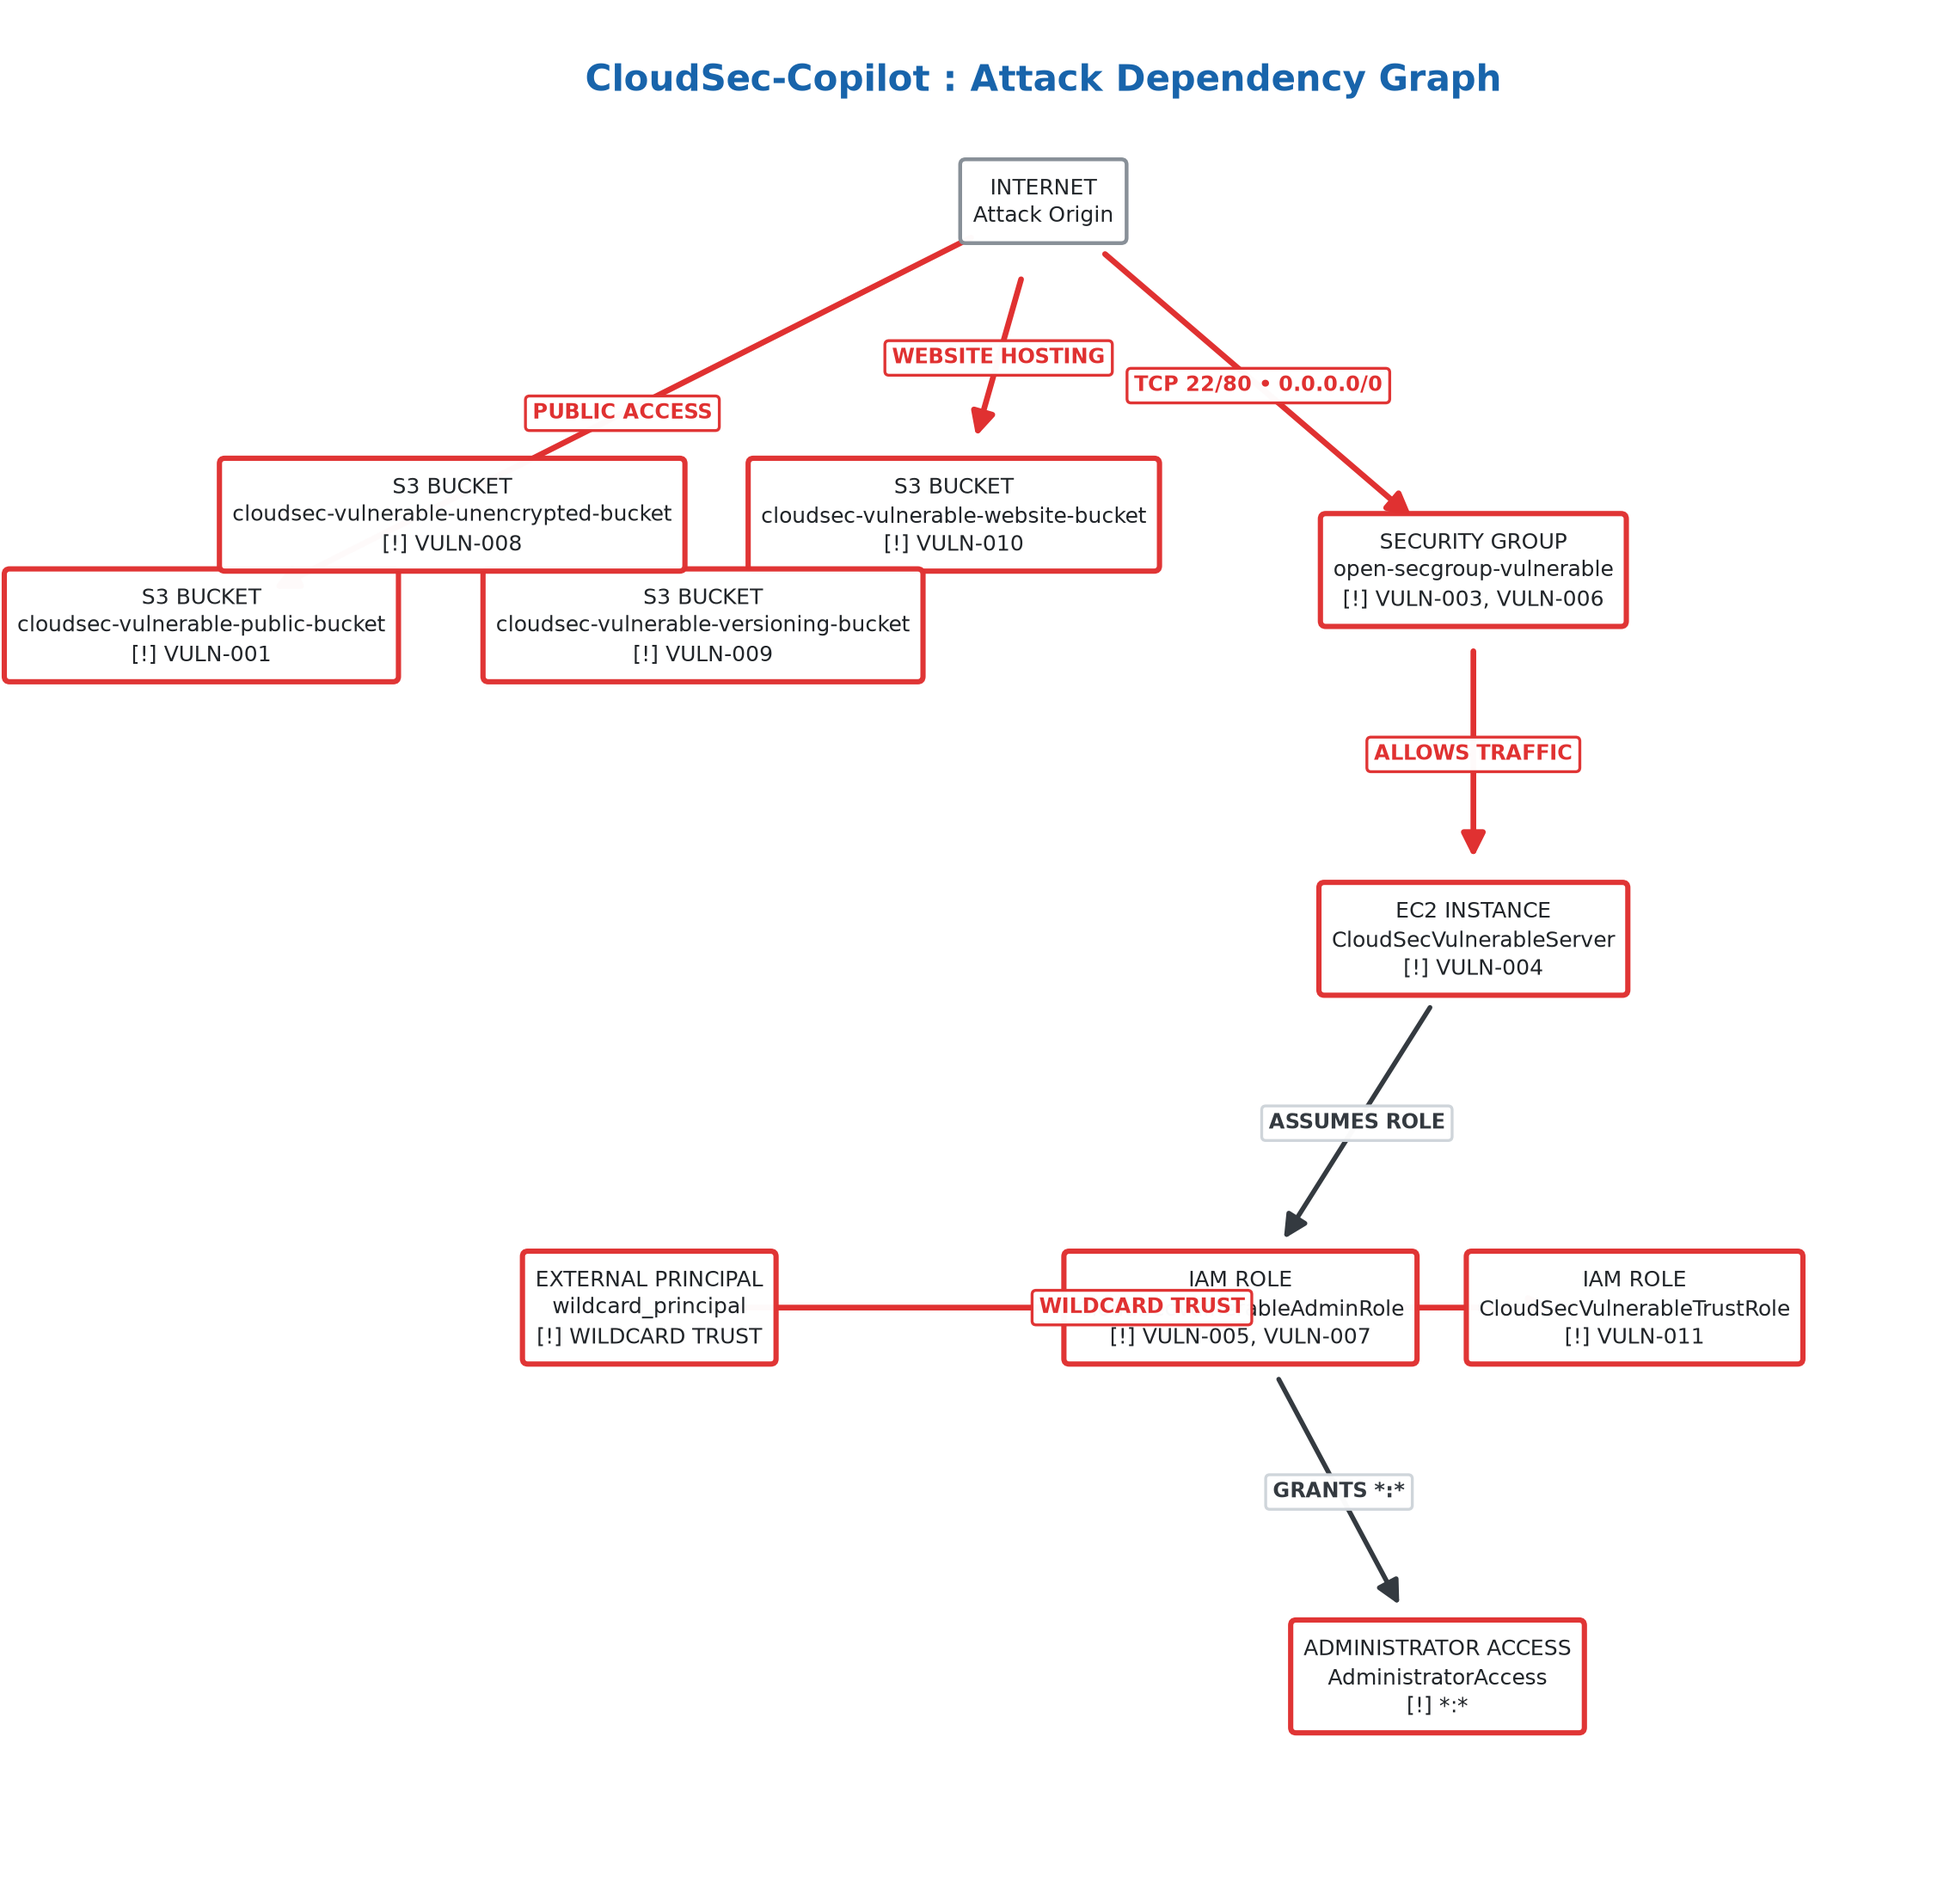
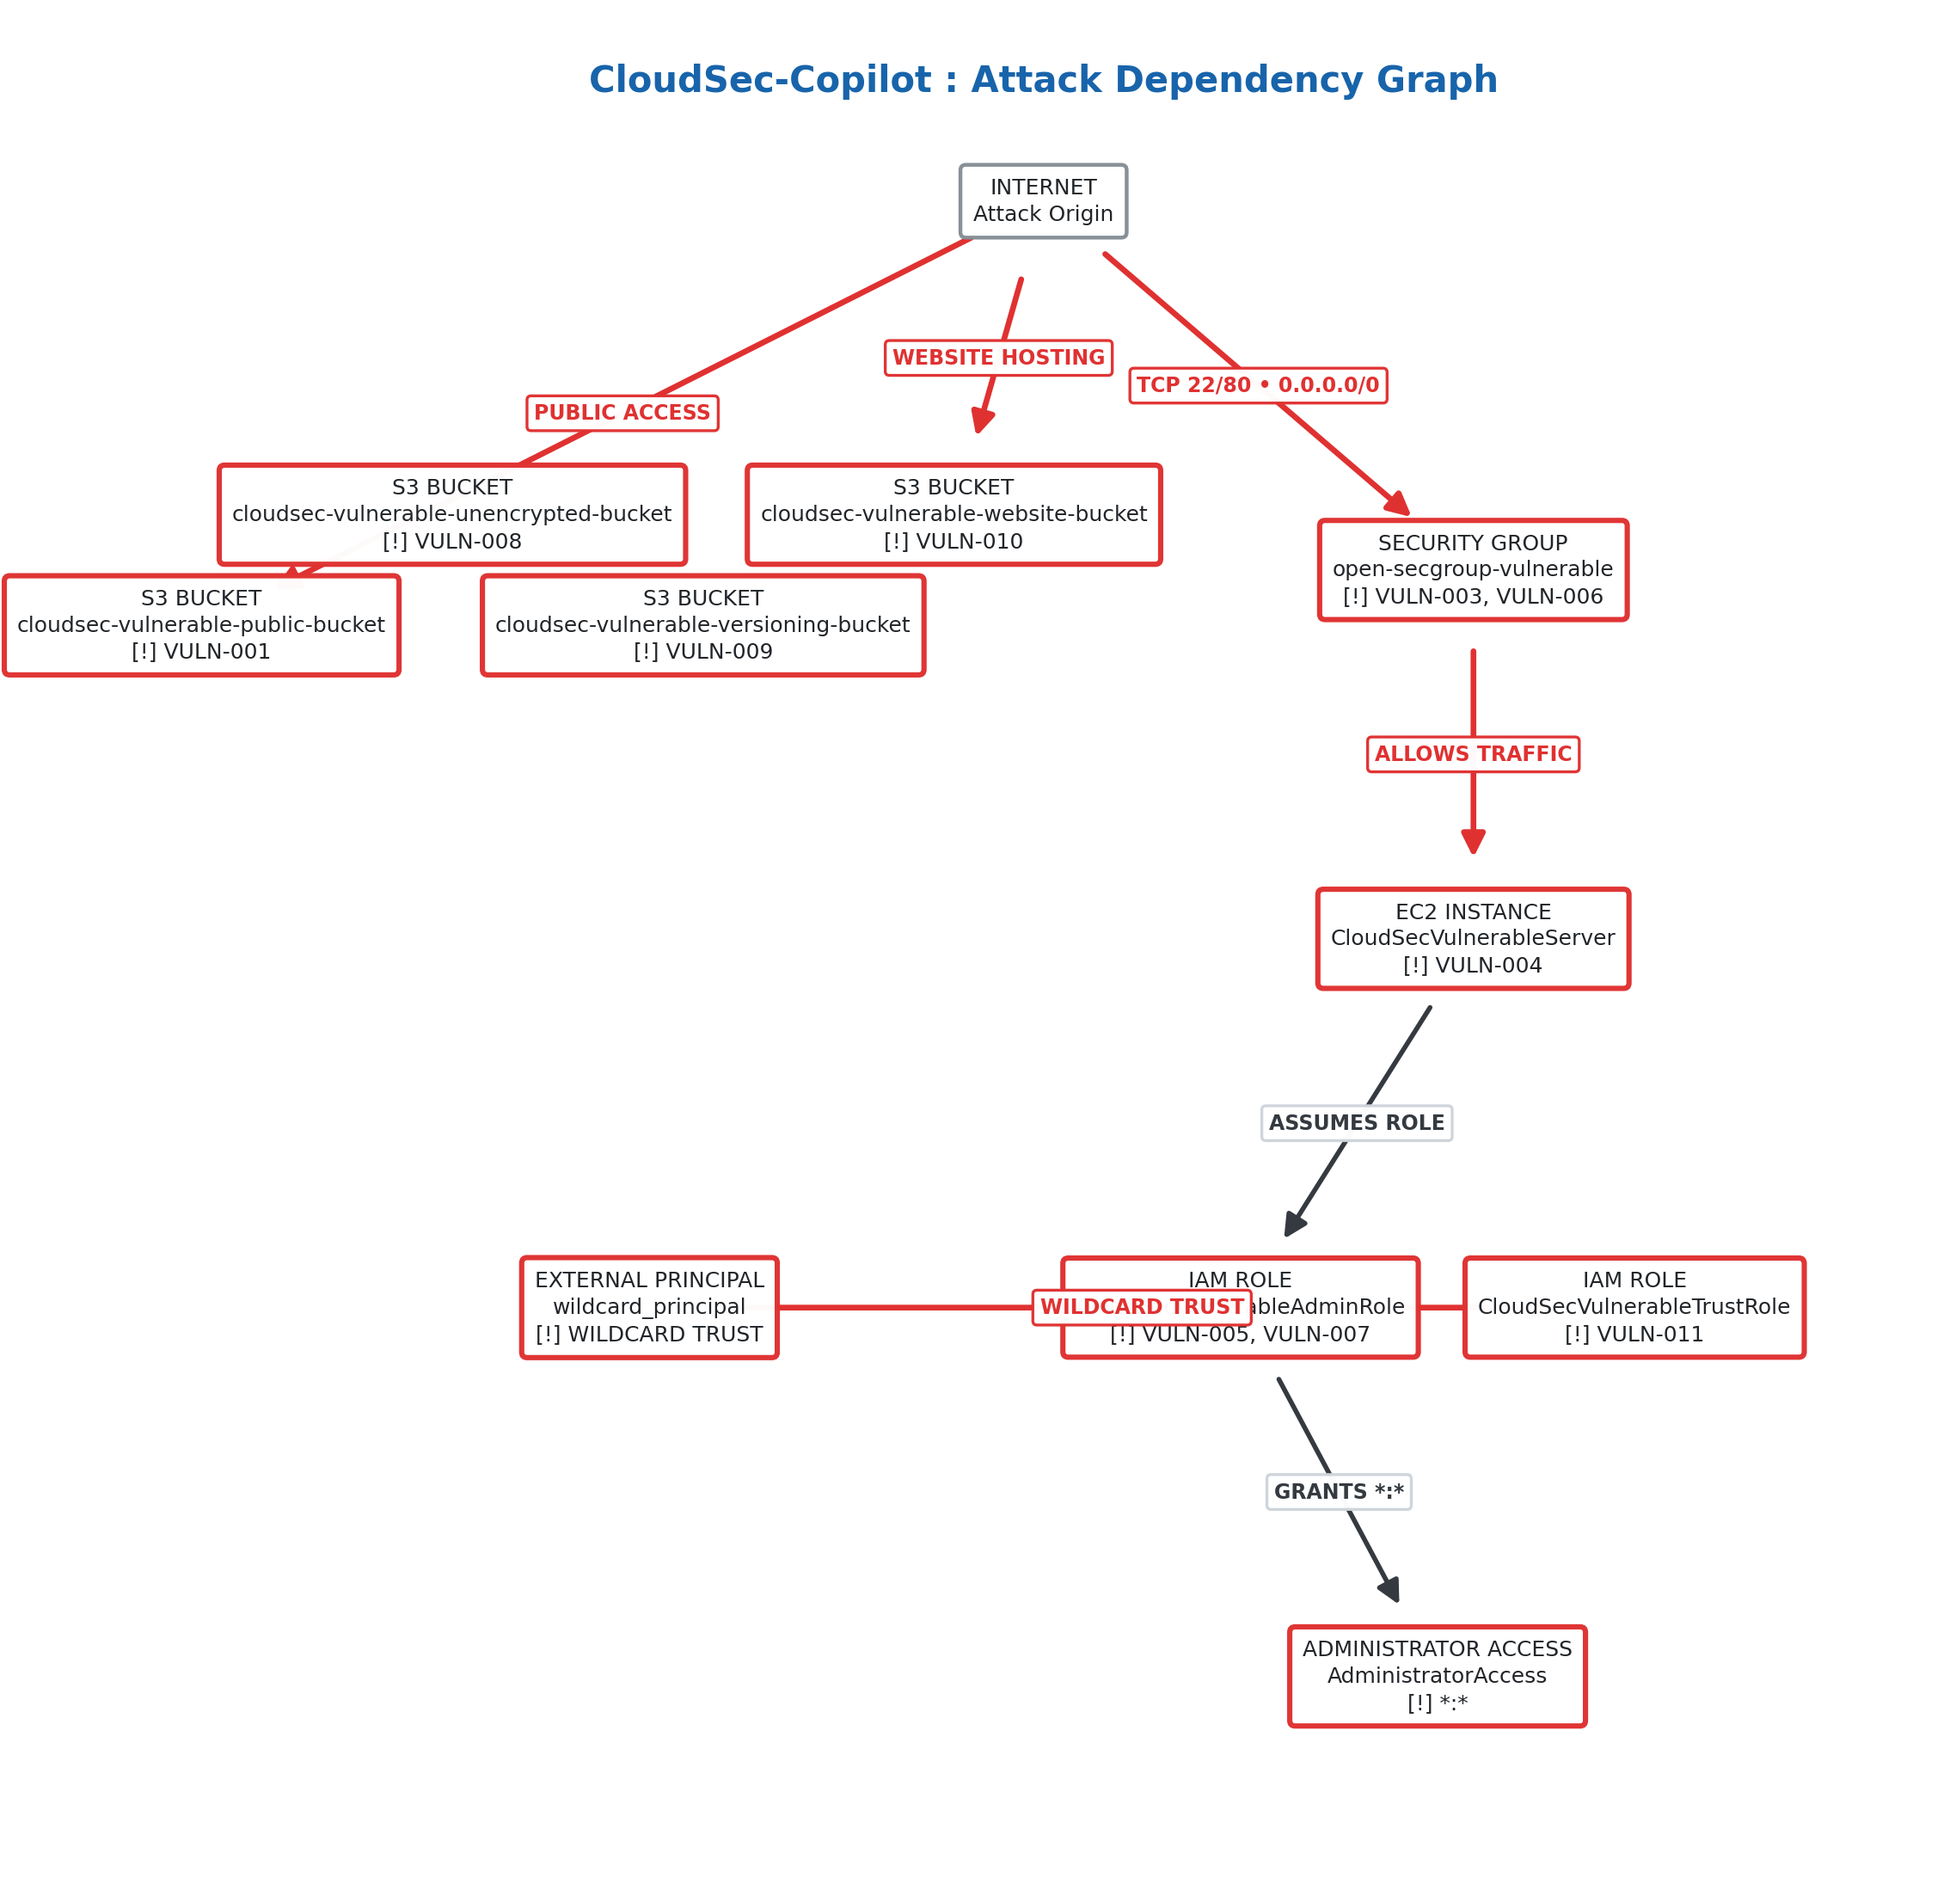
fix(scanner): remove VULN-004 non-remediated EC2 finding from vulnerability list

diff --git a/cloudsec_copilot/scanner/scanner.py b/cloudsec_copilot/scanner/scanner.py
@@ -206,31 +206,6 @@ class Scanner:
                                 )
                             )
 
-        # VULN-004: Publicly accessible EC2 instances
-        for instance in resources.ec2_instances:
-            if instance.public_ip and instance.public_ip.strip():
-                findings.append(
-                    self._make_finding(
-                        "VULN-004",
-                        "RULE-EC2-PUBLIC",
-                        "Publicly accessible EC2 instance",
-                        "HIGH",
-                        instance.instance_id,
-                        "EC2Instance",
-                        {
-                            "instance_id": instance.instance_id,
-                            "public_ip": instance.public_ip,
-                            "private_ip": instance.private_ip,
-                            "security_groups": instance.security_groups,
-                            "iam_instance_profile": instance.iam_instance_profile,
-                            "instance_type": instance.instance_type,
-                            "state": instance.state,
-                        },
-                        "Remove unnecessary public exposure and place the instance behind appropriate network controls such as private subnets, load balancers, or restricted ingress.",
-                        region=region,
-                    )
-                )
-
         # VULN-005 & VULN-007: IAM Roles
         seen_iam_findings = set()
         for role in resources.iam_roles:

diff --git a/cloudsec_copilot/tests/test_phase1_detection.py b/cloudsec_copilot/tests/test_phase1_detection.py
@@ -117,15 +117,8 @@ def test_ec2_public_detection():
         ),
     )
     findings = Scanner().scan(inventory)
-    ec2_findings = [f for f in findings if f["id"] == "VULN-004"]
-    assert len(ec2_findings) == 1
-    assert ec2_findings[0]["rule_id"] == "RULE-EC2-PUBLIC"
-    assert ec2_findings[0]["severity"] == "HIGH"
-    assert ec2_findings[0]["resource_id"] == "i-public-001"
-    assert ec2_findings[0]["resource_type"] == "EC2Instance"
-    assert ec2_findings[0]["region"] == "ap-south-1"
-    assert ec2_findings[0]["details"]["public_ip"] == "13.233.10.20"
-    assert ec2_findings[0]["details"]["instance_type"] == "t3.medium"
+    ec2_findings = [f for f in findings if f.get('id') == 'VULN-004']
+    assert len(ec2_findings) == 0
 
 
 def test_security_group_sensitive_port_detection():
